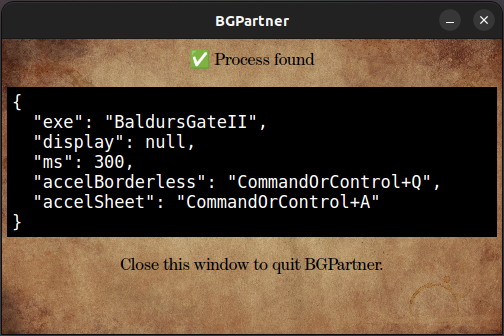
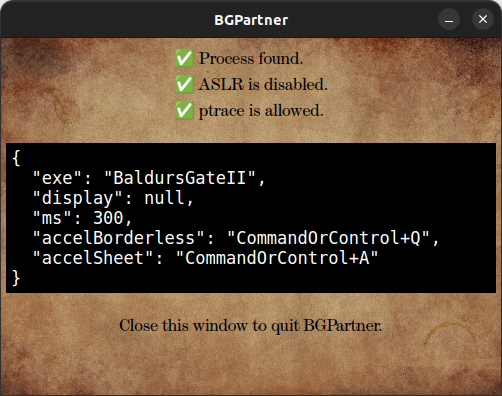
introcuce reqs. work on readme

diff --git a/src/views/control/renderer.ts b/src/views/control/renderer.ts
@@ -1,14 +1,25 @@
 import { ConfigObj } from '../../config/config';
+import { ReqsObj } from '../../reqs/reqs';
 import './control.scss';
 
+// control.reqs
+export type ControlAPIReqsParams = { reqsObj: ReqsObj };
+
+export type ControlAPIReqsMethod = (params: ControlAPIReqsParams) => void;
+
+export type ControlAPIReqs = (data: ControlAPIReqsMethod) => void;
+
+// control.config
 export type ControlAPIConfigParams = { configObj: ConfigObj };
 
 export type ControlAPIConfigMethod = (params: ControlAPIConfigParams) => void;
 
 export type ControlAPIConfig = (data: ControlAPIConfigMethod) => void;
 
+// control.configSet
 export type ControlAPIConfigSet = (height: number) => void;
 
+// control.update
 export type ControlAPIUpdateParams = { alive: boolean };
 
 export type ControlAPIUpdateMethod = (params: ControlAPIUpdateParams) => void;
@@ -16,6 +27,7 @@ export type ControlAPIUpdateMethod = (params: ControlAPIUpdateParams) => void;
 export type ControlAPIUpdate = (data: ControlAPIUpdateMethod) => void;
 
 export type ControlAPI = {
+  reqs: ControlAPIReqs;
   config: ControlAPIConfig;
   configSet: ControlAPIConfigSet;
   update: ControlAPIUpdate;
@@ -31,6 +43,10 @@ class ControlRenderer {
   private alivePrev: boolean = null;
 
   constructor() {
+    window.controlAPI.reqs((params: ControlAPIReqsParams): void => {
+      this.reqs(params.reqsObj);
+    });
+
     window.controlAPI.update((params: ControlAPIUpdateParams): void => {
       this.updateAlive(params.alive);
     });
@@ -42,14 +58,24 @@ class ControlRenderer {
     });
   }
 
+  private reqs(reqsObj: ReqsObj): void {
+    document.getElementById('reqs-aslr').textContent = reqsObj.aslr
+      ? '✅ ASLR is disabled.'
+      : '❌ ASLR is enabled.';
+
+    document.getElementById('reqs-ptrace').textContent = reqsObj.ptrace
+      ? '✅ ptrace is allowed.'
+      : '❌ ptrace is not allowed.';
+  }
+
   private updateAlive(alive: boolean): void {
     if (this.alivePrev === alive) {
       return;
     }
 
     document.getElementById('alive').textContent = alive
-      ? '✅ Process found'
-      : '❌ Process not found';
+      ? '✅ Process found.'
+      : '❌ Process not found.';
 
     this.alivePrev = alive;
   }

diff --git a/src/handlers.ts b/src/handlers.ts
@@ -1,4 +1,4 @@
-import { Config, ConfigObj } from './config/config';
+import { Config } from './config/config';
 import { Entities } from './entities/entities';
 import { Memread } from './memread/memread';
 import { MemreadLinux } from './memread/memread-linux';
@@ -6,6 +6,8 @@ import { MemreadWin32 } from './memread/memread-win32';
 import { Memscan } from './memscan/memscan';
 import { MemscanLinux } from './memscan/memscan-linux';
 import { MemscanWin32 } from './memscan/memscan-win32';
+import { Reqs } from './reqs/reqs';
+import { ReqsLinux } from './reqs/reqs-linux';
 import { Shortcuts } from './shortcuts/shortcuts';
 import { ShortcutsLinux } from './shortcuts/shortcuts-linux';
 import { ShortcutsWin32 } from './shortcuts/shortcuts-win32';
@@ -18,6 +20,7 @@ import { WindowLinux } from './window/window-linux';
 import { WindowWin32 } from './window/window-win32';
 
 export type Handlers = {
+  reqs: Reqs;
   config: Config;
   syscalls: Syscalls;
   memread: Memread;
@@ -29,6 +32,7 @@ export type Handlers = {
 };
 
 export const handlers: Handlers = {
+  reqs: null,
   config: null,
   syscalls: null,
   memread: null,
@@ -39,8 +43,12 @@ export const handlers: Handlers = {
   control: null,
 };
 
-export const config = (): ConfigObj => {
-  return handlers.config.obj;
+export const reqsLinux = (): ReqsLinux => {
+  return handlers.reqs;
+};
+
+export const config = (): Config => {
+  return handlers.config;
 };
 
 export const syscallsLinux = (): SyscallsLinux => {

diff --git a/src/views/control/control.ts b/src/views/control/control.ts
@@ -1,6 +1,6 @@
 import { app, BrowserWindow, ipcMain, IpcMainEvent } from 'electron';
 import path from 'path';
-import { handlers } from '../../handlers';
+import { config, handlers, reqsLinux } from '../../handlers';
 import { linux } from '../../index';
 
 declare const CONTROL_PRELOAD_WEBPACK_ENTRY: string;
@@ -18,7 +18,7 @@ export class Control {
     this.windowCreate();
 
     // Opening devtools causes harmless (?) error: "Request Autofill.enable failed".
-    // this.window.webContents.openDevTools({ mode: 'detach' });
+    this.window.webContents.openDevTools({ mode: 'detach' });
   }
 
   private windowCreate(): void {
@@ -46,7 +46,11 @@ export class Control {
     this.window.removeMenu();
 
     this.window.loadURL(CONTROL_WEBPACK_ENTRY).then((): void => {
-      this.window.webContents.send('control.config', { configObj: handlers.config.obj });
+      if (linux) {
+        this.window.webContents.send('control.reqs', { reqsObj: reqsLinux().obj });
+      }
+
+      this.window.webContents.send('control.config', { configObj: config().obj });
     });
 
     this.window.once('closed', (): void => {

diff --git a/src/views/control/preload.ts b/src/views/control/preload.ts
@@ -3,17 +3,26 @@ import {
   ControlAPIConfig,
   ControlAPIConfigMethod,
   ControlAPIConfigSet,
+  ControlAPIReqs,
+  ControlAPIReqsMethod,
   ControlAPIUpdate,
   ControlAPIUpdateMethod,
 } from './renderer';
 
 export type ControlAPIBridge = {
+  reqs: (callback: ControlAPIReqs) => Electron.IpcRenderer;
   config: (callback: ControlAPIConfig) => Electron.IpcRenderer;
   configSet: ControlAPIConfigSet;
   update: (callback: ControlAPIUpdate) => Electron.IpcRenderer;
 };
 
 const controlAPIBridge: ControlAPIBridge = {
+  reqs: (callback: ControlAPIReqs): Electron.IpcRenderer => {
+    return ipcRenderer.on(
+      'control.reqs',
+      (_event: Electron.IpcRendererEvent, value: ControlAPIReqsMethod): void => callback(value)
+    );
+  },
   config: (callback: ControlAPIConfig): Electron.IpcRenderer => {
     return ipcRenderer.on(
       'control.config',

diff --git a/src/reqs/reqs-linux.ts b/src/reqs/reqs-linux.ts
@@ -1,0 +1,37 @@
+import { execSync } from 'child_process';
+import { devnull } from '../const/const-linux';
+
+export type ReqsLinuxObj = {
+  aslr: boolean;
+
+  ptrace: boolean;
+};
+
+export class ReqsLinux {
+  public obj: ReqsLinuxObj = {
+    aslr: null,
+    ptrace: null,
+  };
+
+  constructor() {
+    this.run();
+  }
+
+  private run(): void {
+    const aslrOut: string = execSync(`cat /proc/sys/kernel/randomize_va_space ${devnull}`)
+      .toString()
+      .trim();
+
+    const aslr: number = Number.parseInt(aslrOut, 10);
+
+    const ptraceOut: string = execSync(`cat /proc/sys/kernel/yama/ptrace_scope ${devnull}`)
+      .toString()
+      .trim();
+
+    const ptrace: number = Number.parseInt(ptraceOut, 10);
+
+    this.obj.aslr = aslr === 0;
+
+    this.obj.ptrace = ptrace === 0;
+  }
+}

diff --git a/src/main.ts b/src/main.ts
@@ -12,12 +12,15 @@ import { SyscallsWin32 } from './syscalls/win32/syscalls-win32';
 
 import { Config } from './config/config';
 import { config, handlers } from './handlers';
+import { ReqsLinux } from './reqs/reqs-linux';
 import { Control } from './views/control/control';
 import { WindowLinux } from './window/window-linux';
 import { WindowWin32 } from './window/window-win32';
 
 export class Main {
   constructor() {
+    handlers.reqs = linux ? new ReqsLinux() : null;
+
     handlers.config = new Config();
 
     handlers.syscalls = linux ? new SyscallsLinux() : new SyscallsWin32();
@@ -36,7 +39,7 @@ export class Main {
   }
 
   public run(): void {
-    setInterval(this.loop.bind(this), config().ms);
+    setInterval(this.loop.bind(this), config().obj.ms);
   }
 
   private loop(): void {

diff --git a/src/shortcuts/shortcuts.ts b/src/shortcuts/shortcuts.ts
@@ -7,11 +7,11 @@ export type Shortcuts = ShortcutsLinux | ShortcutsWin32;
 
 export abstract class ShortcutsOS {
   constructor() {
-    globalShortcut.register(config().accelSheet, (): void => {
+    globalShortcut.register(config().obj.accelSheet, (): void => {
       handlers.window.focused && this.sheetToggle();
     });
 
-    globalShortcut.register(config().accelBorderless, (): void => {
+    globalShortcut.register(config().obj.accelBorderless, (): void => {
       handlers.window.focused && this.borderless();
     });
   }

diff --git a/src/views/control/control.html b/src/views/control/control.html
@@ -5,8 +5,14 @@
   </head>
 
   <body>
-    <div id="wrapper" class="fx-layout-column fx-align--start-x fx-align--x-center">
-      <div id="alive"></div>
+    <div id="wrapper" class="fx-layout-column fx-align--center-x fx-align--x-center fx-gap--5px">
+      <div class="fx-layout-column fx-align--start-x fx-align--x-start fx-gap--5px">
+        <div id="alive"></div>
+
+        <div id="reqs-aslr"></div>
+
+        <div id="reqs-ptrace"></div>
+      </div>
 
       <pre id="config"></pre>
 

diff --git a/src/index.ts b/src/index.ts
@@ -1,4 +1,3 @@
-import { execSync } from 'child_process';
 import { app } from 'electron';
 import os from 'os';
 import { handlers } from './handlers';
@@ -13,10 +12,6 @@ declare global {
 export const linux = os.platform() === 'linux';
 
 const run = (): void => {
-  if (linux) {
-    execSync('sudo ls');
-  }
-
   new Main().run();
 };
 

diff --git a/src/memscan/memscan-linux.ts b/src/memscan/memscan-linux.ts
@@ -14,7 +14,7 @@ export class MemscanLinux extends MemscanOs {
 
   private pidGet(): number {
     try {
-      return Number.parseInt(execSync(`pidof ${config().exe} ${devnull}`).toString(), 10);
+      return Number.parseInt(execSync(`pidof ${config().obj.exe} ${devnull}`).toString(), 10);
     } catch (err) {
       return null;
     }

diff --git a/src/window/window.ts b/src/window/window.ts
@@ -19,7 +19,7 @@ export abstract class WindowOs {
   };
 
   constructor() {
-    const index: number = config().display;
+    const index: number = config().obj.display;
 
     if (_.isNull(index)) {
       this.use(Electron.screen.getPrimaryDisplay().bounds, null);

diff --git a/src/reqs/reqs.ts b/src/reqs/reqs.ts
@@ -1,0 +1,5 @@
+import { ReqsLinux, ReqsLinuxObj } from './reqs-linux';
+
+export type Reqs = ReqsLinux;
+
+export type ReqsObj = ReqsLinuxObj;
